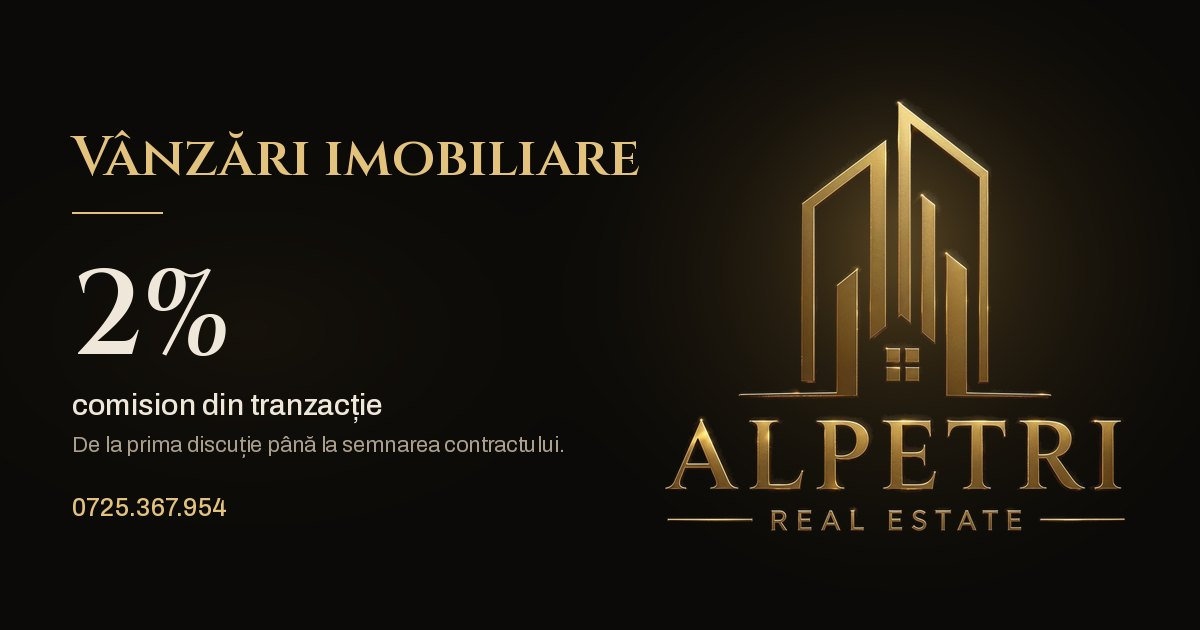
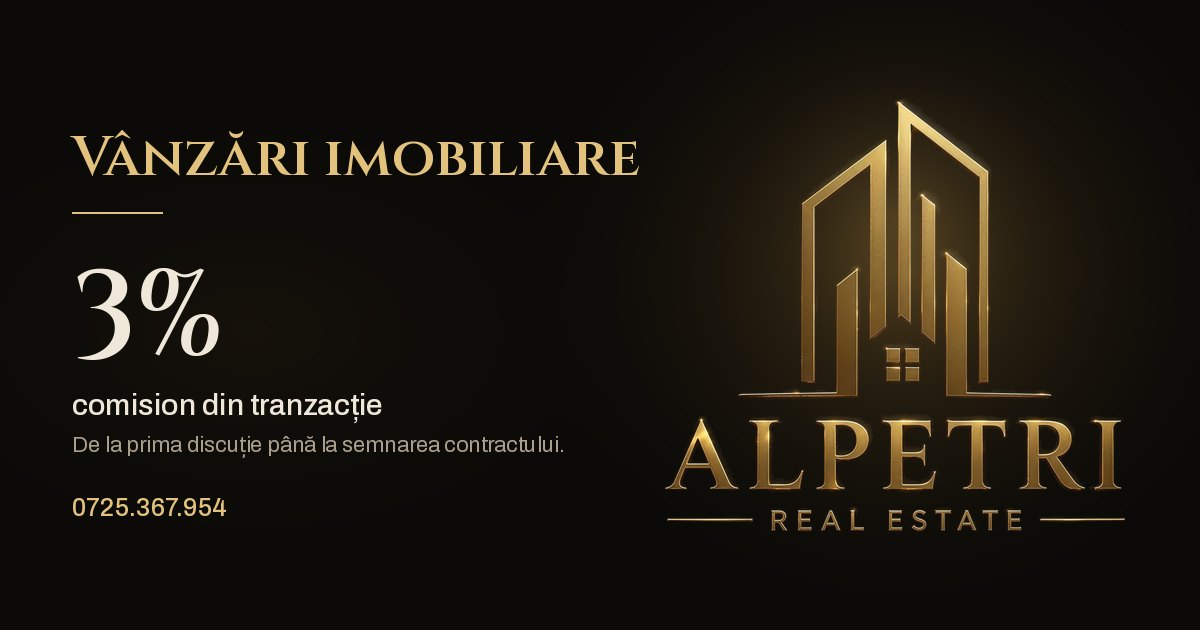
Landing: raise the sales commission to 3%
Every mention of the commission on the main page moves from 2% to 3%:
hero copy and price strip, the large figure and heading of the sales
block, the "Vreau să vând" WhatsApp message, the footer note, the meta
and Open Graph descriptions and the share image. The docs record the
new rate and the previous one.

Claude-Session: https://claude.ai/code/session_01CzzrczQL3zA2dkUtFFKe7F

Changed region(s): [[0.0617, 0.4222, 0.185, 0.573]]

diff --git a/imobiliare/landing/index.html b/imobiliare/landing/index.html
@@ -4,7 +4,7 @@
 <meta charset="utf-8">
 <meta name="viewport" content="width=device-width, initial-scale=1, viewport-fit=cover">
 <title>Alpetri Real Estate | Vânzări imobiliare</title>
-<meta name="description" content="Vânzări imobiliare cu un comision clar de 2% din tranzacție. Ne ocupăm de prezentare, promovare, vizionări și negociere, până la semnarea contractului.">
+<meta name="description" content="Vânzări imobiliare cu un comision clar de 3% din tranzacție. Ne ocupăm de prezentare, promovare, vizionări și negociere, până la semnarea contractului.">
 <meta name="theme-color" content="#0c0b09">
 
 <!-- og:image are nevoie de URL absolut ca să apară în WhatsApp și Facebook.
@@ -12,7 +12,7 @@
 <meta property="og:type" content="website">
 <meta property="og:locale" content="ro_RO">
 <meta property="og:title" content="Alpetri Real Estate | Vânzări imobiliare">
-<meta property="og:description" content="Vindem proprietatea dumneavoastră cu un comision de 2% din tranzacție, de la prima discuție până la semnarea contractului.">
+<meta property="og:description" content="Vindem proprietatea dumneavoastră cu un comision de 3% din tranzacție, de la prima discuție până la semnarea contractului.">
 <meta property="og:image" content="media/og-image.jpg">
 <meta property="og:image:width" content="1200">
 <meta property="og:image:height" content="630">
@@ -65,7 +65,7 @@
 
     <div class="hero-copy">
       <h1 class="h-display">Orice proprietate merită <em>mai mult</em> decât un anunț</h1>
-      <p class="hero-lede">Vindem imobile cu un comision clar, de 2% din tranzacție, afișat de la
+      <p class="hero-lede">Vindem imobile cu un comision clar, de 3% din tranzacție, afișat de la
         început. Ne ocupăm de tot drumul, de la prezentarea proprietății până la semnarea
         contractului.</p>
       <div class="hero-cta">
@@ -76,7 +76,7 @@
           <svg class="ico" aria-hidden="true"><use href="#i-wa"/></svg>Scrieți-ne pe WhatsApp</a>
       </div>
       <ul class="tariff" aria-label="Comisionul pe scurt">
-        <li><span>Comision de vânzare</span><b>2% din tranzacție</b></li>
+        <li><span>Comision de vânzare</span><b>3% din tranzacție</b></li>
       </ul>
     </div>
 
@@ -105,9 +105,9 @@
     </div>
 
     <article class="deal deal-solo reveal">
-      <p class="deal-num" aria-hidden="true">2%</p>
+      <p class="deal-num" aria-hidden="true">3%</p>
       <div class="deal-body">
-        <h3>Comision de 2% din tranzacție</h3>
+        <h3>Comision de 3% din tranzacție</h3>
         <ul class="deal-list">
           <li><svg class="ico" aria-hidden="true"><use href="#i-check"/></svg>Prezentarea proprietății</li>
           <li><svg class="ico" aria-hidden="true"><use href="#i-check"/></svg>Promovarea ei către cumpărători</li>
@@ -116,7 +116,7 @@
           <li><svg class="ico" aria-hidden="true"><use href="#i-check"/></svg>Sprijin până la semnarea contractului</li>
         </ul>
         <a class="btn btn-gold" href="https://wa.me/40725367954" target="_blank" rel="noopener"
-           data-wa-text="Bună ziua! Aș dori să vând o proprietate prin Alpetri Real Estate (comision 2%).">
+           data-wa-text="Bună ziua! Aș dori să vând o proprietate prin Alpetri Real Estate (comision 3%).">
           <svg class="ico" aria-hidden="true"><use href="#i-wa"/></svg>Vreau să vând</a>
       </div>
     </article>
@@ -235,7 +235,7 @@
   <div class="wrap">
     <div class="ftr-legal">
       <span>© <span class="num">2026</span> Alpetri Real Estate</span>
-      <span>Comision de vânzare: 2% din tranzacție.</span>
+      <span>Comision de vânzare: 3% din tranzacție.</span>
     </div>
   </div>
 </footer>

diff --git a/imobiliare/landing/README.md b/imobiliare/landing/README.md
@@ -1,6 +1,6 @@
 # Landing Alpetri Real Estate
 
-Pagina de prezentare a agenției pentru vânzări imobiliare (comision 2% din
+Pagina de prezentare a agenției pentru vânzări imobiliare (comision 3% din
 tranzacție), pe identitatea din logo (negru și auriu). Este independentă de site-ul cu scroll 3D din `../web`, care
 rămâne neatins.
 
@@ -33,7 +33,7 @@ rezerva pentru browsere fără JavaScript.
 
 ## Oferta afișată
 
-Doar vânzări imobiliare, cu comision de 2% din tranzacție. Închirierile, turul video
+Doar vânzări imobiliare, cu comision de 3% din tranzacție. Închirierile, turul video
 cu AI, site-ul 3D, videoclipurile de la proprietate și pachetul complet au fost
 scoase la cererea agenției (octombrie 2026) și nu mai apar nicăieri pe pagină.
 

diff --git a/imobiliare/landing/DESIGN.md b/imobiliare/landing/DESIGN.md
@@ -83,7 +83,7 @@ le-a dat agenția: Razvan Alpetri (Broker Imobiliar) și Badila Bianca (Agent Im
 
 - Proprietăți logice peste tot (`padding-inline`, `padding-block`).
 - Pe telefon logo-ul vine primul, apoi titlul. Pe desktop, text stânga, logo dreapta.
-- Pagina vinde un singur serviciu, vânzarea, iar cifra lui e afișul secțiunii: „2%”
+- Pagina vinde un singur serviciu, vânzarea, iar cifra lui e afișul secțiunii: „3%”
   mare, auriu, lângă ce include vânzarea. Fără grilă de servicii și fără prețuri în lei.
 - „Cum lucrăm” este o scară care urcă spre dreapta, ca etajele din emblemă.
 - Bara fixă de apel există doar sub 760 px și apare după 60% din primul ecran.

diff --git a/imobiliare/PRODUCT.md b/imobiliare/PRODUCT.md
@@ -87,7 +87,7 @@ Date de agenție, sursa de adevăr pentru orice text cu prețuri:
 
 | serviciu | preț |
 |---|---|
-| Vânzări imobiliare | comision 2% din tranzacție |
+| Vânzări imobiliare | comision 3% din tranzacție (până în octombrie 2026 a fost 2%) |
 
 Din octombrie 2026 landing-ul prezintă doar vânzările. Închirierile (50%), turul
 video cu AI, site-ul 3D, videoclipurile de la proprietate și pachetul complet de
